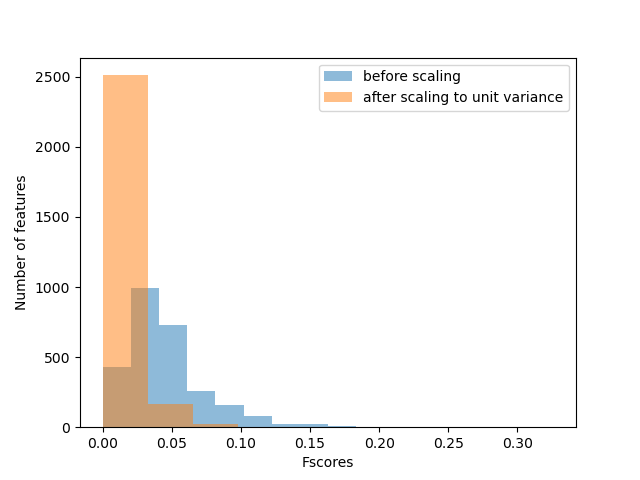
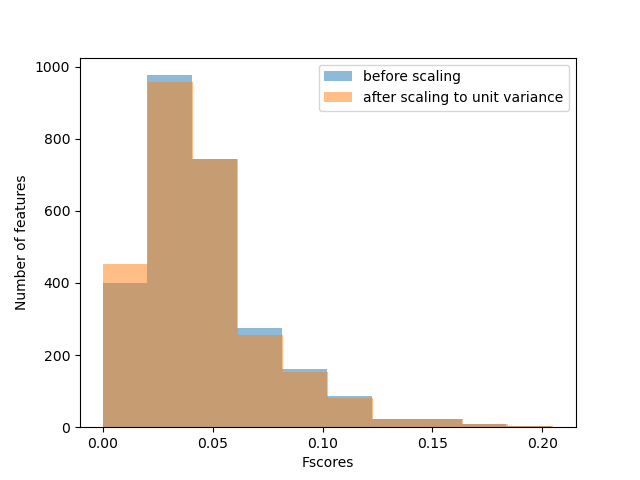
bug removed for fscores

diff --git a/graphtools/load_data.py b/graphtools/load_data.py
@@ -21,30 +21,6 @@ def make_hist(X_train, y_train, ax):
     ax.legend()
     return ax
 #%%
-names = ['FC_ad.npy', 'FC_hc.npy', 'FC_mci.npy', 'tau_ad.npy', 'tau_hc.npy', 'tau_mci.npy']
-dir = '/home/shreya/git/Thesis/data'
-
-for name in names:
-    var = np.load(f'{dir}/{name}', allow_pickle=True)
-    print(name)
-    print (var.shape)
-
-    # a few questions about the data
-    # How many subjects?
-    # Why are the shapes of the arrays different
-    # What does each array represent
-    # How many nodes were talked about? Maybe 52 nodes
-    # Some have the node weights and the others have the edge weights
-    # Maybe the node information is in the tau variables. 
-
-
-    # the shapes are corresponding for fc, ad, hc and mci types maybe a grouping needs to be established accordingly
-
-    # ad is for the alzheimer's patients
-    # hc is for the healthy controls
-    # mci is for? mild cognitive impairment (sort of the middle group for the onset of Alzheimer's disease)
-    # I have to prepare a label for these. Each of these three has a different label associated with the
-#%%
 def load_files():
     combined_edges = []
     combined_nodes = []
@@ -59,31 +35,36 @@ def load_files():
         combined_edges.extend(edges_l)
 
         nodes = np.load(f'{dir}/tau_{group}.npy', allow_pickle=True)
-        print(nodes.shape)
+        #print(nodes.shape)
         nodes = pd.DataFrame(nodes)
-        print(nodes.head())
+        #print(nodes.head())
         nodes['label'] = group
         nodes_l = np.array(nodes)
-        print(nodes_l.shape)
+        #print(nodes_l.shape)
         combined_nodes.extend(nodes_l)
-        print(len(combined_nodes), len(combined_nodes[0]))
+        #print(len(combined_nodes), len(combined_nodes[0]))
     mapping = {'ad': 2, 'hc': 0, 'mci': 1}
-    print(len(combined_nodes), len(combined_nodes[0]))
+    #print(len(combined_nodes), len(combined_nodes[0]))
 
     combined_edges, combined_nodes = pd.DataFrame(combined_edges), pd.DataFrame(combined_nodes, columns=range(len(combined_nodes[0])))
     combined_edges.iloc[:, -1] = combined_edges.iloc[:, -1].map(mapping)
     combined_nodes = combined_nodes.replace('m00', np.nan)
-    combined_nodes.fillna(combined_nodes.mean(), inplace=True)
-
+    #combined_nodes.fillna(combined_nodes.mean(), inplace=True)
+    combined_nodes.dropna(inplace=True)
+    combined_edges = combined_edges.iloc[combined_nodes.index, :]
+    print ('Nodes:', combined_nodes.shape)
+    print('Edges:', combined_edges.shape)
     return combined_edges, combined_nodes
 #%%
+dir = '/home/shreya/git/Thesis/data'
 combined_edges, combined_nodes = load_files()
 #%%
+scalar = StandardScaler()
 fscores = fscore(combined_edges, class_col=len(combined_edges.columns)-1)
 trans_edges = pd.DataFrame(scalar.fit_transform(combined_edges.iloc[:, :-1]))
-trans_fscores = fscore(pd.concat([trans_edges, combined_edges.iloc[:,-1]]),
-                class_col=len(combined_edges)-1)
-scalar = StandardScaler()
+trans_fscores = fscore(pd.concat([trans_edges, combined_edges.iloc[:,-1]], axis=1),
+                class_col=len(combined_edges.columns)-1)
+
 # has the data already been standardized, if so in which way?
 for log in [True, False]:
     plt.hist(sorted(fscores), label='before scaling', log=log, alpha=0.5)
@@ -99,7 +80,7 @@ for log in [True, False]:
 #%%
 fscores = fscore(combined_edges, class_col=len(combined_edges.columns)-1)
 trans_edges = pd.DataFrame(scalar.fit_transform(combined_edges.iloc[:, :-1]))
-trans_fscores = fscore(pd.concat([trans_edges, combined_edges.iloc[:,-1]]),
+trans_fscores = fscore(pd.concat([trans_edges, combined_edges.iloc[:,-1]], axis=1),
                 class_col=len(combined_edges)-1)
 plt.hist(fscores[fscores!=0], label='before scaling')
 plt.hist(trans_fscores[trans_fscores!=0], label='after scaling to unit variance')
